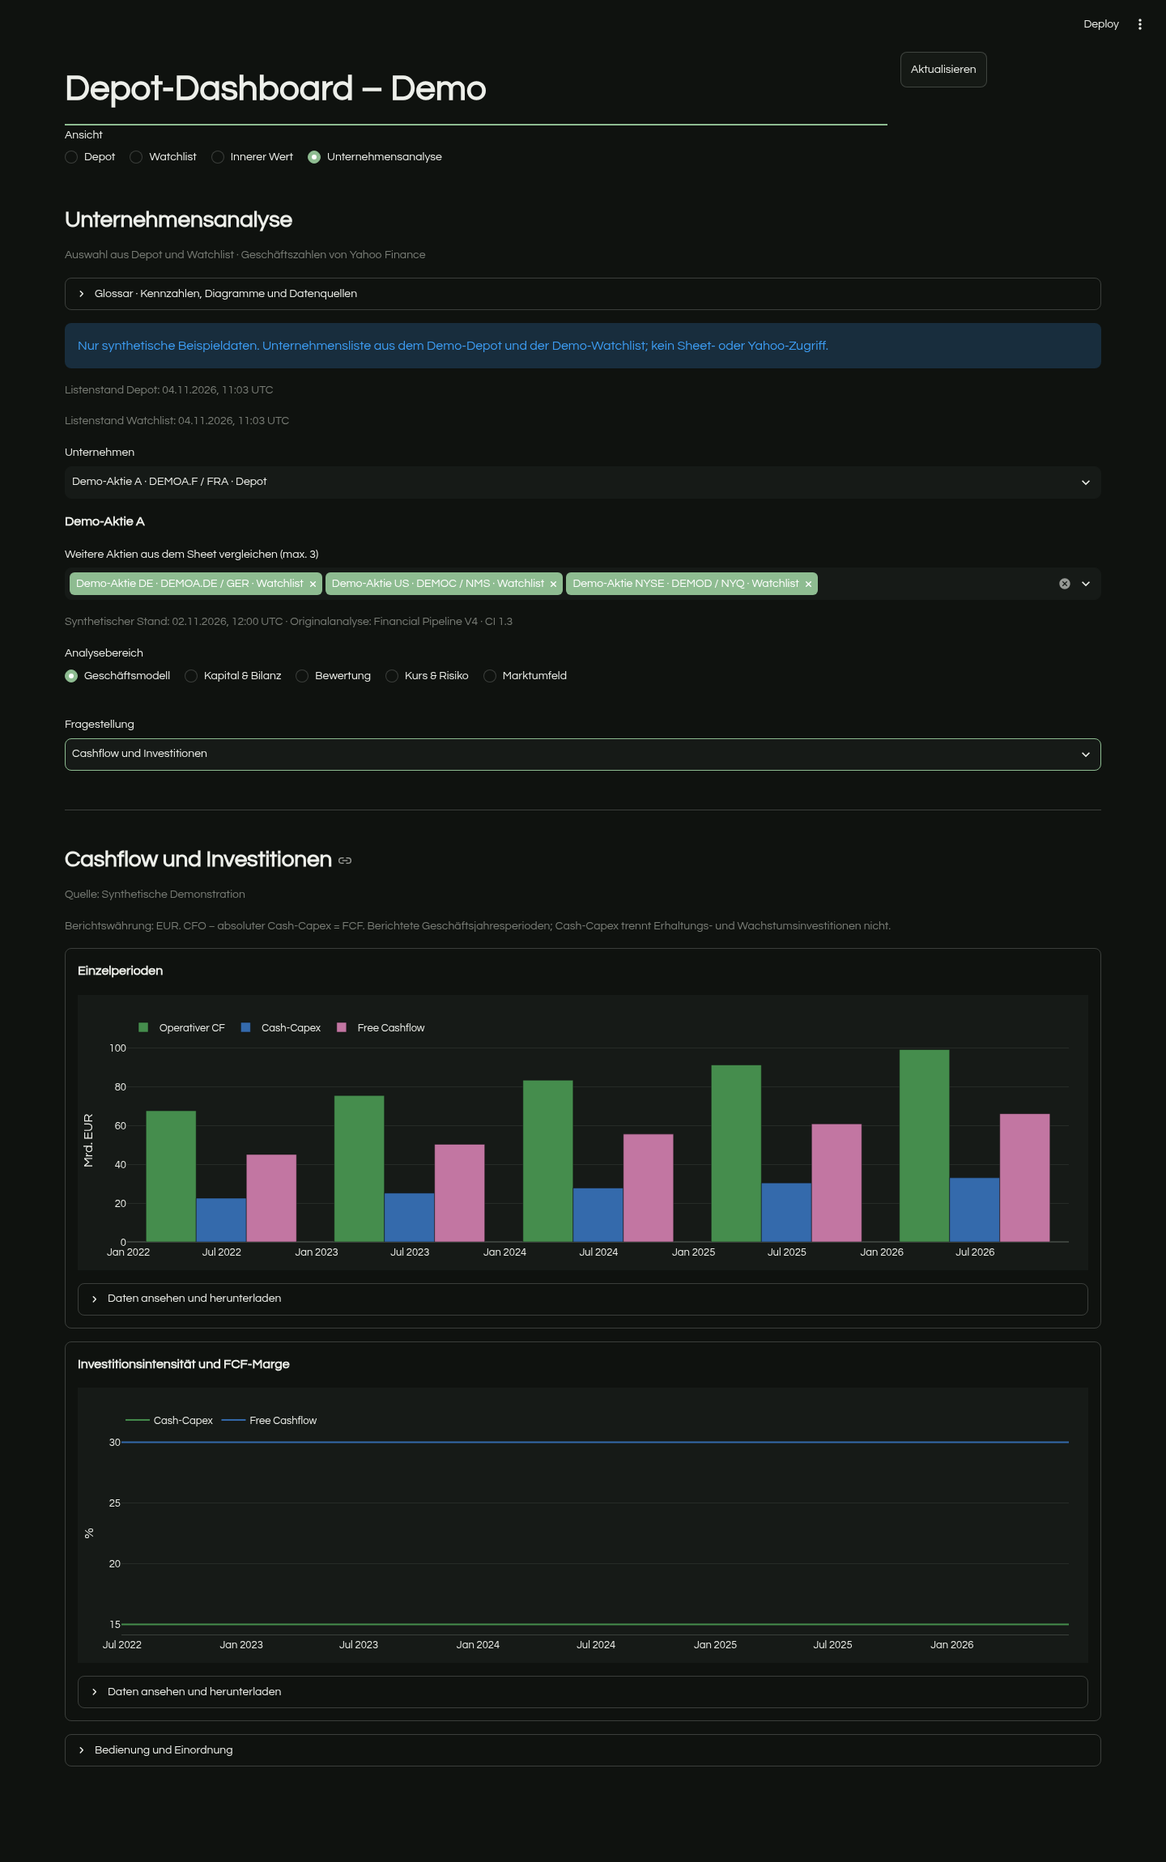
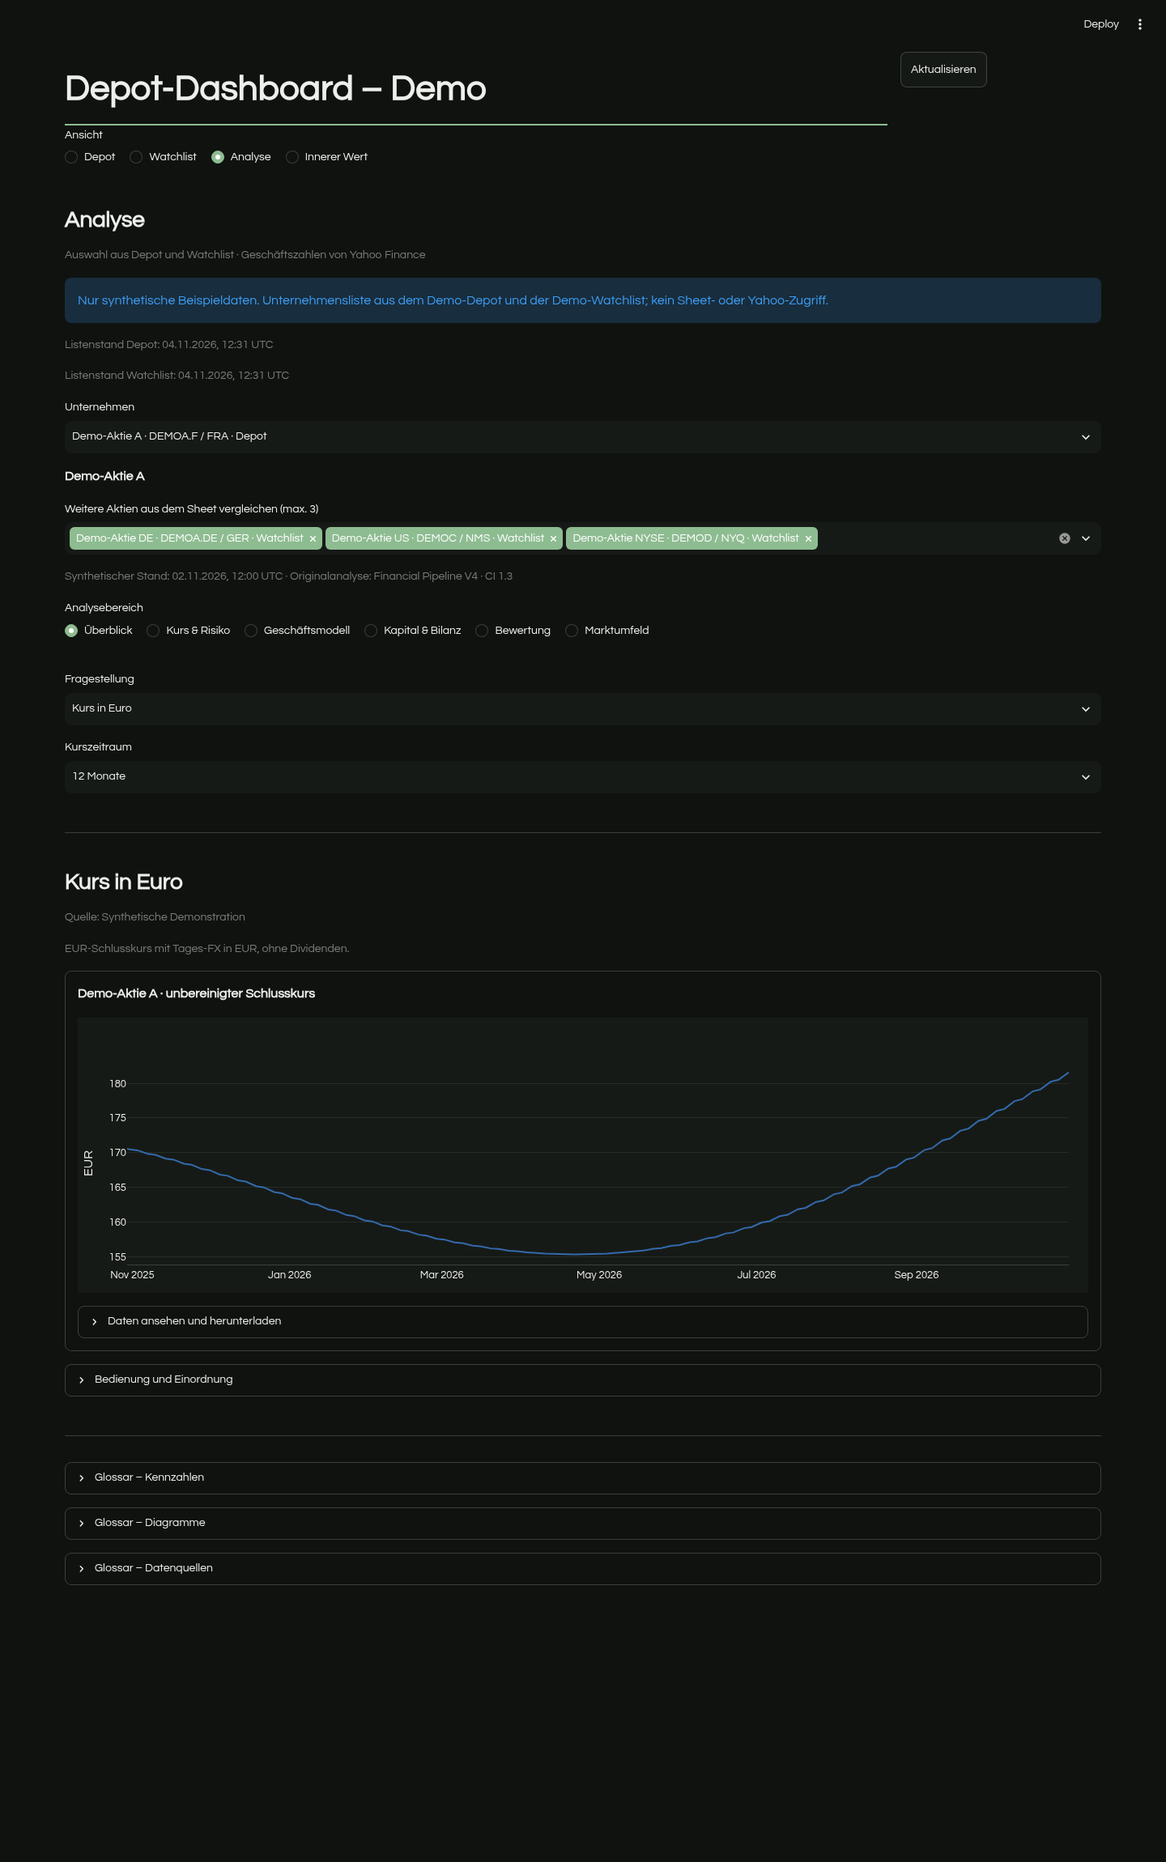
feat: start Analyse with stock overview and split footer glossaries
Move Analyse after Watchlist, introduce a course-first progression into financial details, and separate metrics, chart explanations and data sources at the bottom of the page. Keep all glossary sections available on empty and unavailable states.

Validation: 1799 tests passed; repository-wide Ruff passed; Chromium desktop and mobile checks passed.

diff --git a/tests/test_exploration_selection.py b/tests/test_exploration_selection.py
@@ -314,6 +314,7 @@ def test_company_switch_does_not_reuse_other_company_data_or_reload_sheet(monkey
     app.button(key="exploration.load_catalog").click().run()
     assert not app.exception and not calls
     app.button(key="exploration.load_data").click().run()
+    app.radio(key=view.GROUP_KEY).set_value("Geschäftsmodell").run()
     app.selectbox(key=f"{view.TOPIC_KEY}.Geschäftsmodell").set_value(9).run()
     assert not app.exception and app.get("plotly_chart")
     app.selectbox(key=view.COMPANY_KEY).set_value(repr(SECOND.key)).run()
@@ -330,7 +331,12 @@ def test_company_switch_does_not_reuse_other_company_data_or_reload_sheet(monkey
 def test_glossary_available_before_loading_sources():
     app = AppTest.from_function(live_page).run()
     assert not app.exception
-    assert any(
-        "ROIC" in text.value and "Noch nicht angebunden" in text.value
-        for text in app.markdown
-    )
+    assert [e.label for e in app.expander] == [
+        "Glossar – Kennzahlen", "Glossar – Diagramme", "Glossar – Datenquellen"
+    ]
+    metrics, charts, sources = app.expander
+    assert "ROIC" in metrics.markdown[0].value
+    assert "Was wurde aus 100?" in charts.markdown[0].value
+    assert "Noch nicht angebunden" in sources.markdown[0].value
+    assert "t.history" in sources.markdown[0].value
+    assert "t.history" not in metrics.markdown[0].value + charts.markdown[0].value

diff --git a/src/portfolio_dashboard/exploration/view.py b/src/portfolio_dashboard/exploration/view.py
@@ -10,7 +10,7 @@ from .data import fetch
 from .demo import demo_bundle
 from .selection import Catalog, demo_catalog
 
-AREA = "Unternehmensanalyse"
+AREA = "Analyse"
 STATE = "exploration.snapshot"
 GROUP_KEY = "exploration.group"
 TOPIC_KEY = "exploration.topic"
@@ -22,10 +22,20 @@ COMPARE_KEY = "exploration.comparisons"
 
 
 def render(*, demo=True, refresh_clicked=False, load_companies=None):
-    st.subheader("Unternehmensanalyse")
+    st.subheader(AREA)
     st.caption("Auswahl aus Depot und Watchlist · Geschäftszahlen von Yahoo Finance")
-    with st.expander("Glossar · Kennzahlen, Diagramme und Datenquellen"):
-        st.markdown(Path(__file__).with_name("glossary.md").read_text(encoding="utf-8"))
+    _render_analysis(
+        demo=demo, refresh_clicked=refresh_clicked, load_companies=load_companies
+    )
+    st.divider()
+    glossary = Path(__file__).with_name("glossary.md").read_text(encoding="utf-8")
+    for section in ("\n" + glossary).split("\n## ")[1:]:
+        title, _, body = section.partition("\n")
+        with st.expander(f"Glossar – {title}"):
+            st.markdown(body.strip())
+
+
+def _render_analysis(*, demo, refresh_clicked, load_companies):
     mode = ".demo" if demo else ".live"
     catalog_key = CATALOG_KEY + mode
     if demo:

diff --git a/tests/test_exploration.py b/tests/test_exploration.py
@@ -121,11 +121,17 @@ def test_ui_all_topics_offline_and_return_to_depot(monkeypatch):
     ).run()
     app.radio(key=AREA_RADIO_KEY).set_value(AREA).run()
     assert not app.exception
+    assert app.radio(key=GROUP_KEY).value == "Überblick"
+    assert app.selectbox(key=f"{TOPIC_KEY}.Überblick").value == 1
+    assert app.get("plotly_chart")
     for group, topics in GROUPS.items():
         app.radio(key=GROUP_KEY).set_value(group).run()
         for topic in topics:
             app.selectbox(key=f"{TOPIC_KEY}.{group}").set_value(topic).run()
             assert not app.exception, (group, topic)
+            assert [e.label for e in app.expander][-3:] == [
+                "Glossar – Kennzahlen", "Glossar – Diagramme", "Glossar – Datenquellen"
+            ]
             if topic in {11, 12, 17, 28}:
                 assert app.warning, (group, topic)
                 assert any(

diff --git a/src/portfolio_dashboard/ui.py b/src/portfolio_dashboard/ui.py
@@ -924,8 +924,12 @@ def render_dashboard(
     with header_cols[1]:
         refresh_clicked = st.button("Aktualisieren", key=REFRESH_BUTTON_KEY)
 
-    areas = AREAS if overview is None else (*AREAS, VALUATION_AREA)
-    selected = render_area_control((*areas, exploration_view.AREA))
+    areas = (*AREAS, exploration_view.AREA)
+    if overview is not None:
+        areas = (*areas, VALUATION_AREA)
+    if st.session_state.get(AREA_KEY) == "Unternehmensanalyse":
+        st.session_state[AREA_KEY] = exploration_view.AREA
+    selected = render_area_control(areas)
     if selected == exploration_view.AREA:
         _keep_state(_DEPOT_WIDGET_KEYS + _WATCHLIST_WIDGET_KEYS + valuation_view.WIDGET_KEYS)
         def read_companies(previous):

diff --git a/tests/test_auth.py b/tests/test_auth.py
@@ -401,7 +401,7 @@ def test_watchlist_loader_is_built_only_for_the_owner_and_only_when_opened(prote
 def test_valuation_area_is_owner_only_and_opens_without_any_loading(protected_app, monkeypatch):
     make_app, calls = protected_app
     app = make_app(owner_claims()).run()
-    assert app.radio(key=ui.AREA_RADIO_KEY).options == ["Depot", "Watchlist", "Innerer Wert", "Unternehmensanalyse"]
+    assert app.radio(key=ui.AREA_RADIO_KEY).options == ["Depot", "Watchlist", "Analyse", "Innerer Wert"]
     calls.clear()
     app.radio(key=ui.AREA_RADIO_KEY).set_value("Innerer Wert").run()
     assert not app.exception and not app.error

diff --git a/src/portfolio_dashboard/exploration/charts.py b/src/portfolio_dashboard/exploration/charts.py
@@ -31,11 +31,12 @@ from .calculations import (
 from .data import currency_code, dates, prices, statement
 
 GROUPS = {
-    "Geschäftsmodell": (28, 10, 9, 29, 3, 22),
-    "Kapital & Bilanz": (21, 23, 24, 20, 14),
-    "Bewertung": (25, 12, 26, 27),
-    "Kurs & Risiko": (1, 2, 4, 5, 6, 7, 8, 13, 11),
-    "Marktumfeld": (15, 16, 17, 18, 19),
+    "Überblick": (1, 5, 13),
+    "Kurs & Risiko": (6, 7, 8, 4, 2, 11),
+    "Geschäftsmodell": (10, 28, 9, 3, 29, 22),
+    "Kapital & Bilanz": (20, 21, 23, 24, 14),
+    "Bewertung": (26, 12, 25, 27),
+    "Marktumfeld": (15, 16, 18, 17, 19),
 }
 TITLES = {
     1: "Kurs in Euro",

diff --git a/tests/test_watchlist_ui.py b/tests/test_watchlist_ui.py
@@ -196,7 +196,7 @@ def test_demo_starts_on_the_depot_course_view_and_offers_the_watchlist(offline_d
     app = new_app().run()
     assert not app.exception
     assert app.radio(key=AREA_RADIO_KEY).label == "Ansicht"
-    assert app.radio(key=AREA_RADIO_KEY).options == ["Depot", "Watchlist", "Innerer Wert", "Unternehmensanalyse"]
+    assert app.radio(key=AREA_RADIO_KEY).options == ["Depot", "Watchlist", "Analyse", "Innerer Wert"]
     assert app.radio(key=AREA_RADIO_KEY).value == "Depot"
     assert app.subheader[0].value == "Kursentwicklung · Heute"
     assert app.radio(key=PERIOD_RADIO_KEY).value == "Heute"

diff --git a/src/portfolio_dashboard/exploration/selection.py b/src/portfolio_dashboard/exploration/selection.py
@@ -73,7 +73,7 @@ def portfolio_companies(snapshot, mappings):
         reason = None
         if instrument.instrument_type is not InstrumentType.STOCK:
             reason = (
-                "n. v. – Unternehmensanalyse ist nur für einzelne Aktien angebunden."
+                "n. v. – Analyse ist nur für einzelne Aktien angebunden."
             )
         elif mapping is None or mapping.provider != "yfinance":
             reason = "n. v. – Geprüfte Yahoo-Zuordnung fehlt. Anzeigename und Ticker allein reichen nicht."

diff --git a/tests/test_valuation_ui.py b/tests/test_valuation_ui.py
@@ -150,8 +150,8 @@ def test_area_is_offered_and_shows_the_synthetic_overview(demo):
     assert app.radio(key=AREA_RADIO_KEY).options == [
         "Depot",
         "Watchlist",
+        "Analyse",
         "Innerer Wert",
-        "Unternehmensanalyse",
     ]
     app = opened(app)
     assert not app.exception and not app.error

diff --git a/src/portfolio_dashboard/exploration/glossary.md b/src/portfolio_dashboard/exploration/glossary.md
@@ -1,21 +1,4 @@
-## Begriffe und Datenstatus
-
-**n. v. (NA)** heißt „nicht verfügbar“: Yahoo liefert keine ausreichenden Daten,
-Metadaten widersprechen dem gewählten Listing oder eine Berechnung ist fachlich
-nicht sinnvoll. Eine unbekannte Zahl wird niemals als null ersetzt.
-**Noch nicht angebunden** bezeichnet eine fehlende Datenquelle oder eine noch
-nicht geprüfte Zuordnung. Andere Analysen bleiben trotzdem nutzbar.
-
-Die Unternehmensliste kommt aus Depot und Watchlist im Google Sheet. Nur die
-vorhandene Yahoo-Zuordnung wird verwendet; ein Anzeigename oder ein freier Ticker
-ist keine bestätigte Zuordnung. Fehlende Zuordnungen bleiben mit Erklärung sichtbar.
-Doppelte identische Listings werden zusammengeführt; unterschiedliche Handelsplätze
-bleiben unterscheidbar. „Unternehmen aus Sheet laden“ liest keine Marktkurse für
-alle Positionen. Erst „Analysedaten laden“ ruft die gewählte Aktie und höchstens drei
-weitere Vergleichsaktien ab. Das Sheet wird nicht verändert.
-
 ## Kennzahlen
-
 | Begriff | Bedeutung und Grenze |
 |---|---|
 | Umsatz | Gemeldete Erlöse einer Berichtsperiode; kein Zahlungszufluss. |
@@ -45,7 +28,89 @@ weitere Vergleichsaktien ab. Das Sheet wird nicht verändert.
 | Implizite Volatilität (IV) | In Optionspreisen enthaltene annualisierte Schwankungserwartung. Keine Richtungsprognose. |
 | Abrufstand / Meldestichtag | Zeitpunkt unseres Abrufs / Zeitpunkt der berichteten Information. Beide können weit auseinanderliegen. |
 
-## Diagramme und Yahoo-Schnittstellen
+## Diagramme
+
+Die Auswahl führt vom Kursüberblick über Geschäftszahlen bis zu Bewertungsdetails.
+Die Nummern verweisen weiterhin auf die ursprünglichen V4-Themen.
+
+### Überblick
+
+| Nr. | Diagramm | Was lässt sich daraus ablesen? |
+|---|---|---|
+| 01 | Kurs in Euro | Wie hat sich der Aktienkurs in EUR entwickelt? Einstieg mit wählbarem Zeitraum. |
+| 05 | Was wurde aus 100? | Wie hätten sich gleich große Anfangsbeträge in den ausgewählten Aktien entwickelt? Alle starten bei 100. |
+| 13 | Vergleich mit dem Markt | Wie steht die Aktie gegenüber den US-Referenzen S&P 500 und Nasdaq-100 da? Kein lokaler Marktindex. |
+
+### Kurs & Risiko
+
+| Nr. | Diagramm | Was lässt sich daraus ablesen? |
+|---|---|---|
+| 06 | Monatsrenditen | In welchen der zwölf vollständigen Monate gab es Gewinne oder Verluste? |
+| 07 | Verlust seit dem Hoch | Wie weit liegt der Kurs unter seinem bisher beobachteten Hoch, und wie lange dauern Erholungen? |
+| 08 | Rendite und Kursrisiko | Wie stehen Ertrag, Schwankungen und Verluste der verglichenen Aktien zueinander? |
+| 04 | Kerzen und Volumen | Wie verliefen einzelne Handelstage vom Eröffnungs- bis zum Schlusskurs, und wie viel wurde gehandelt? |
+| 02 | Kurs und Quartalsergebnisse | Wann wurden Gewinne gemeldet und wie lagen sie gegenüber den Schätzungen? |
+| 11 | Reaktion auf Quartalszahlen | Wie bewegte sich die Aktie um Ergebnisveröffentlichungen gegenüber dem Markt? Keine Aussage über die Ursache. |
+
+### Geschäftsmodell
+
+| Nr. | Diagramm | Was lässt sich daraus ablesen? |
+|---|---|---|
+| 10 | Wachstum und Margen | Wie entwickeln sich Umsatz und Profitabilität über die Berichtsperioden? |
+| 28 | Geschäftsmodell und Segmente | Welche Geschäftsbereiche tragen Umsatz und Ergebnis? Die benötigte Segmentquelle ist noch nicht angebunden. |
+| 09 | Cashflow und Investitionen | Wie viel operatives Geld bleibt nach Cash-Investitionen jährlich übrig? |
+| 03 | Cashflow je Quartal | Wie verändert sich der Cashflow kurzfristig und auf Basis von vier aufeinanderfolgenden Quartalen? |
+| 29 | Cashflow-Überleitung | Wie wird aus operativem Cashflow durch Abzug des Cash-Capex der Free Cashflow? |
+| 22 | Gewinnqualität | Wird der ausgewiesene Gewinn durch operative Zahlungsströme und Free Cashflow gestützt? |
+
+### Kapital & Bilanz
+
+| Nr. | Diagramm | Was lässt sich daraus ablesen? |
+|---|---|---|
+| 20 | Bilanz und Zinsdeckung | Wie stehen Liquidität, Schulden und die Fähigkeit zur Zinszahlung zueinander? |
+| 21 | Kapitalrendite | Wie produktiv arbeitet das im Unternehmen gebundene Kapital? |
+| 23 | Kapitalverwendung | Wie verteilt sich das Geld auf Investitionen, Ausschüttungen und weitere Verwendungen? |
+| 24 | Entwicklung je Aktie | Wie entwickeln sich Ergebnis und Cashflow auf Basis der berichteten Aktienzahl? |
+| 14 | Dividende und Deckung | Wie hoch sind die tatsächlichen Ausschüttungen, und wie werden sie durch Gewinn und Cashflow gedeckt? |
+
+### Bewertung
+
+| Nr. | Diagramm | Was lässt sich daraus ablesen? |
+|---|---|---|
+| 26 | Bewertungsmultiplikatoren | Welche Bewertungsverhältnisse meldet Yahoo, und wie haben sie sich verändert? |
+| 12 | Historisches KGV | Wie stand der Kurs zu den zu diesem Zeitpunkt bekannten Gewinnen? Der historische Median ist kein fairer Wert. |
+| 25 | Schätzungen und Revisionen | Welche Gewinne und Umsätze werden für gleiche Zielperioden erwartet, und wie verändern sich diese Erwartungen? |
+| 27 | Reverse DCF | Welches zukünftige FCF-Wachstum erklärt den aktuellen Preis unter verschiedenen Renditeannahmen? |
+
+### Marktumfeld
+
+| Nr. | Diagramm | Was lässt sich daraus ablesen? |
+|---|---|---|
+| 15 | Analysten-Konsens | Wie verteilen sich aktuelle Empfehlungen und Kursziele? Momentaufnahme, keine Prognosegarantie. |
+| 16 | Kurszieländerungen | Welche einzelnen Analystenmeldungen wurden veröffentlicht? Kein historischer Konsens. |
+| 18 | Institutionelle Eigentümer | Welche gemeldeten institutionellen Bestände liegen zu welchen Stichtagen vor? |
+| 17 | Insider-Transaktionen | Welche Käufe und Verkäufe wurden gemeldet? Die Daten können lückenhaft oder verzögert sein. |
+| 19 | Optionsvolatilität | Welche Schwankungen sind in ausreichend liquiden Optionspreisen enthalten? Keine Richtungsprognose. |
+
+## Datenquellen
+
+### Verfügbarkeit und Unternehmensauswahl
+
+**n. v. (NA)** heißt „nicht verfügbar“: Yahoo liefert keine ausreichenden Daten,
+Metadaten widersprechen dem gewählten Listing oder eine Berechnung ist fachlich
+nicht sinnvoll. Eine unbekannte Zahl wird niemals als null ersetzt.
+**Noch nicht angebunden** bezeichnet eine fehlende Datenquelle oder eine noch
+nicht geprüfte Zuordnung. Andere Analysen bleiben trotzdem nutzbar.
+
+Die Unternehmensliste kommt aus Depot und Watchlist im Google Sheet. Nur die
+vorhandene Yahoo-Zuordnung wird verwendet; ein Anzeigename oder ein freier Ticker
+ist keine bestätigte Zuordnung. Fehlende Zuordnungen bleiben mit Erklärung sichtbar.
+Doppelte identische Listings werden zusammengeführt; unterschiedliche Handelsplätze
+bleiben unterscheidbar. „Unternehmen aus Sheet laden“ liest keine Marktkurse für
+alle Positionen. Erst „Analysedaten laden“ ruft die gewählte Aktie und höchstens drei
+weitere Vergleichsaktien ab. Das Sheet wird nicht verändert.
+
+### Yahoo Finance und Abdeckung
 
 Die Nummerierung folgt V4. `t = yf.Ticker(gewähltes_symbol)`.
 „Yahoo“ bedeutet: angebunden **sofern der Anbieter für das Unternehmen Daten liefert**.
@@ -83,8 +148,7 @@ Das ist keine Abdeckungs- oder Qualitätsgarantie.
 | 28 | Geschäftssegmente | Geschäftsberichte / Segmentquelle | **Noch nicht angebunden. Keine festen Microsoft-Zahlen als Ersatz.** |
 | 29 | Cashflow-Überleitung | `t.cashflow` | CFO − Cash-Capex = FCF, letztes vollständiges Geschäftsjahr |
 
-## Währungen und Perioden
-
+### Währungen und Perioden
 Kurse und Kerzen stehen in der bestätigten Handelswährung, Geschäftszahlen in
 `financialCurrency`. Eine Einheit wie Pence wird ohne bestätigte Normalisierung
 nicht stillschweigend als Pfund behandelt. Bei widersprüchlichen Metadaten wird

diff --git a/docs/EXPLORATION.md b/docs/EXPLORATION.md
@@ -1,11 +1,11 @@
-# Unternehmensanalyse: Financial Pipeline in Streamlit
+# Analyse: Financial Pipeline in Streamlit
 
-Die Ansicht **Unternehmensanalyse** ergänzt Depot, Watchlist und Innerer Wert.
+Die Ansicht **Analyse** steht direkt hinter **Watchlist**, vor **Innerer Wert**.
 Sie portiert alle 29 Themen der Financial-Pipeline-V4 in native Plotly-Charts,
 interaktive Tabellen und CSV-Downloads. Die Originalskripte, PNGs und die eingefrorene
 Baseline im Pipeline-Repository bleiben unverändert.
 
-![Unternehmensanalyse mit ausschließlich synthetischen Daten](images/exploration-demo.png)
+![Analyse mit ausschließlich synthetischen Daten](images/exploration-demo.png)
 
 ## Start
 
@@ -14,7 +14,7 @@ uv sync --locked
 uv run --locked streamlit run app.py
 ```
 
-In der Navigation **Unternehmensanalyse** auswählen. Standardmäßig läuft das
+In der Navigation **Analyse** auswählen. Standardmäßig läuft das
 Dashboard vollständig offline mit deutlich markierten synthetischen Beispielen.
 Bekannte Symbole im Demo-Modus stehen **nicht** für echte Marktdaten.
 
@@ -47,20 +47,27 @@ ursprünglichem Zeitstempel erhalten. Scheitert das Lesen einer Sheet-Quelle,
 bleibt deren zuvor geladene Liste erhalten und wird entsprechend gekennzeichnet.
 Einzelne fehlende Yahoo-Ressourcen sperren nur die betroffenen Analysen.
 
-Das **Glossar · Kennzahlen, Diagramme und Datenquellen** steht direkt auf der Seite
-auch vor dem Laden von Daten bereit. [Glossar und unverändertes Pipeline-Original](glossary.md).
+Am Seitenende stehen drei getrennte aufklappbare Bereiche: **Glossar – Kennzahlen**,
+**Glossar – Diagramme** und **Glossar – Datenquellen**. Sie bleiben auch vor dem
+Laden von Daten und bei nicht verfügbaren Analysen erreichbar.
+[Glossar und unverändertes Pipeline-Original](glossary.md).
 
 ## Gestaltung und Navigation
 
-- **Geschäftsmodell:** Segmente, Wachstum/Margen, Jahres- und Quartalscashflow,
-  Cashflow-Überleitung, Gewinnqualität.
-- **Kapital & Bilanz:** ROIC, Kapitalverwendung, Entwicklung je Aktie, Bilanz,
-  Zinsdeckung, Dividende und Ausschüttungsquote.
-- **Bewertung:** Schätzungen/Revisionen, rekonstruiertes KGV, Portal-Multiplikatoren,
-  Reverse DCF.
-- **Kurs & Risiko:** EUR-Kurs, EPS-Ereignisse, Kerzen/Volumen, Aktienvergleich,
-  Monatsrenditen, Drawdown, Risikoübersicht, Benchmark, Earnings-Reaktion.
-- **Marktumfeld:** Analystenkonsens, Zieländerungen, Insider, Institutionen, Optionen.
+Die Reihenfolge führt vom groben Überblick zum Deep Dive. Beim ersten Öffnen
+startet die Ansicht mit dem Aktienkurs in EUR:
+
+1. **Überblick:** Kursverlauf, Vergleich der gewählten Aktien ab 100, Marktvergleich.
+2. **Kurs & Risiko:** Monatsrenditen, Drawdown, Rendite/Risiko, Kerzen/Volumen,
+   Quartalsergebnisse und Reaktion auf Veröffentlichungen.
+3. **Geschäftsmodell:** Wachstum/Margen, Segmente, Jahres- und Quartalscashflow,
+   Cashflow-Überleitung und Gewinnqualität.
+4. **Kapital & Bilanz:** Bilanz/Zinsdeckung, ROIC, Kapitalverwendung,
+   Entwicklung je Aktie und Dividende/Deckung.
+5. **Bewertung:** Portal-Multiplikatoren, historisches KGV,
+   Schätzungen/Revisionen und Reverse DCF.
+6. **Marktumfeld:** Analystenkonsens, Zieländerungen, Institutionen,
+   Insider-Transaktionen und Optionen.
 
 Eine Fragestellung zur Zeit hält die Seite schnell und übersichtlich. Mehrere
 Kennzahlen eines Themas stehen in getrennten Panels, niemals auf einer Doppelachse.

diff --git a/README.md b/README.md
@@ -14,14 +14,16 @@
 - **Technische Umsetzung:** Python 3.12, Streamlit und Plotly. Die Fachlogik liegt in reinen, UI-unabhängigen Modulen und ist durch über 1.100 automatisierte Tests mit synthetischen Daten abgesichert.
 - **Datenschutz:** Echte Depotdaten werden erst nach Google-Login und serverseitiger Besitzerprüfung geladen. Repository, Tests und Demo enthalten keine realen Daten.
 
-## Interaktive Unternehmensanalyse
+## Interaktive Analyse
 
-Die neue Ansicht **Unternehmensanalyse** überträgt die 29 Themen der Financial-Pipeline-V4
+Die Ansicht **Analyse** direkt hinter **Watchlist** überträgt die 29 Themen der Financial-Pipeline-V4
 in Streamlit/Plotly: Geschäftszahlen, Kapitalqualität, Bewertung, Kursrisiko und
 Marktumfeld. Hover, Zoom, Tabellen und CSV-Downloads ergänzen die Originalanalyse.
 Die Unternehmensauswahl kommt aus **Depot und Watchlist im Google Sheet**; bis zu
 drei weitere Aktien lassen sich vergleichen. Nicht verfügbare Daten zeigen **n. v.**
-oder **Noch nicht angebunden**. Das Glossar ist direkt in der Ansicht erreichbar.
+oder **Noch nicht angebunden**. Der Einstieg zeigt den Aktienkurs; die Themen führen
+vom Überblick zum Deep Dive. Drei getrennte Glossare für Kennzahlen, Diagramme und
+Datenquellen stehen am Seitenende.
 Die gemeinsame dunkle CI gilt auch für die Treemap.
 [Bedienung, Herkunft und Datenregeln](docs/EXPLORATION.md) · [Glossar](docs/glossary.md).
 
